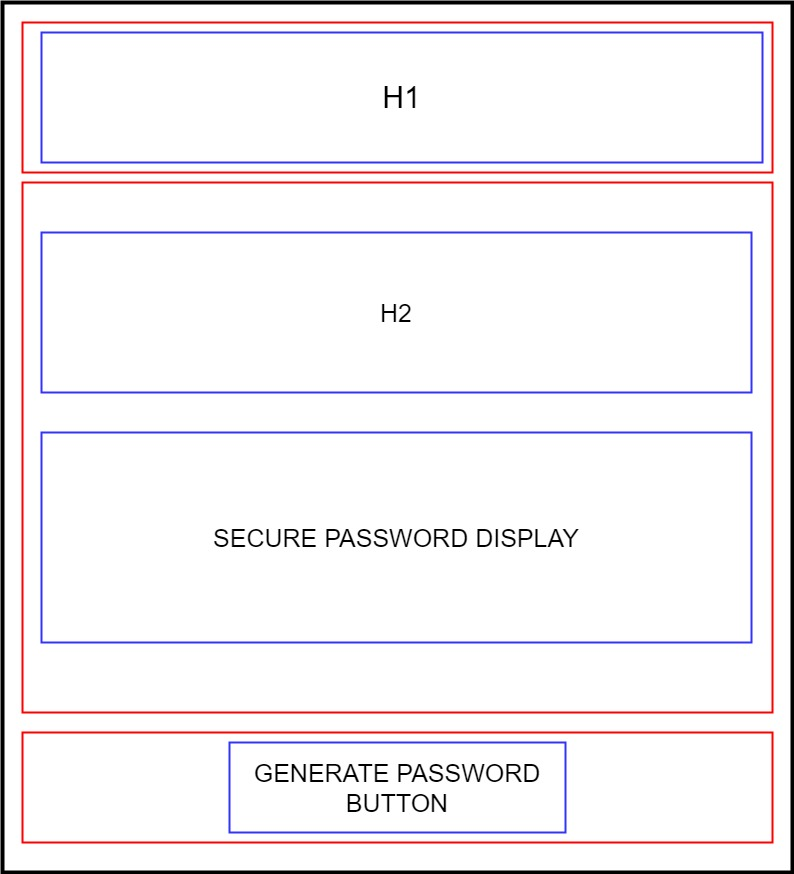
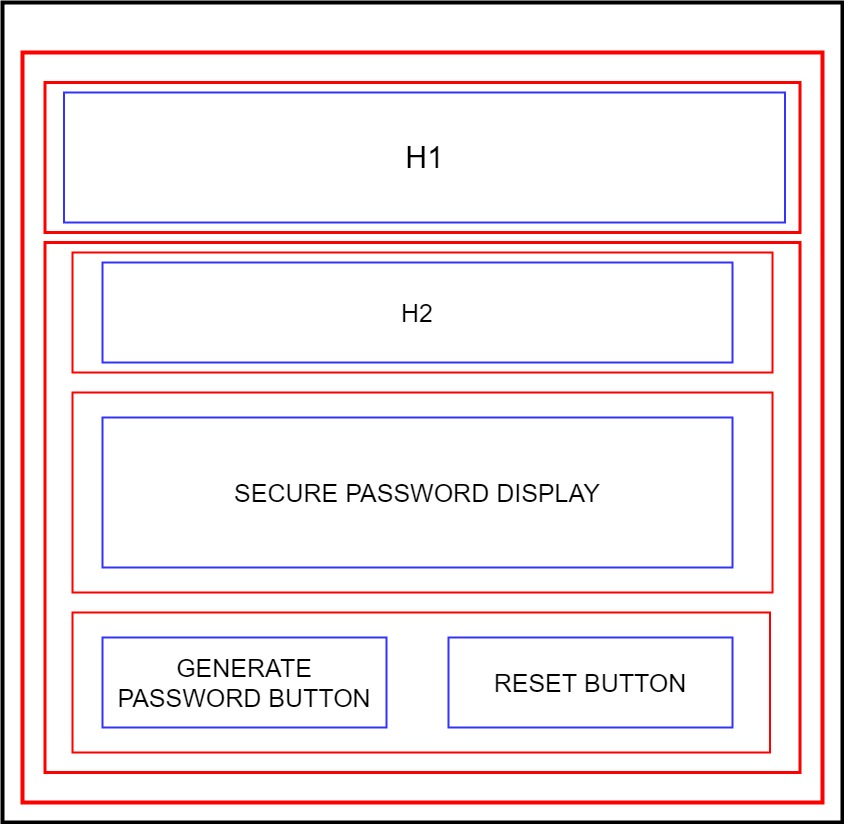
Updated wireframe. initial html layout. CSS styling.

Changed region(s): [[0.0, 0.0, 0.9975, 1.0], [0.272, 0.5765, 0.7254, 0.6371]]

diff --git a/index.html b/index.html
@@ -1,18 +1,38 @@
 <!DOCTYPE html>
 <html lang="en">
+
 <head>
     <meta charset="UTF-8">
     <meta http-equiv="X-UA-Compatible" content="IE=edge">
     <meta name="viewport" content="width=device-width, initial-scale=1.0">
     <!-- Linking css files -->
-    <link rel="stylesheet" href="./Assets/css/reset.css">
+    <!-- <link rel="stylesheet" href="./Assets/css/reset.css"> -->
     <link rel="stylesheet" href="./Assets/css/style.css">
 
     <title>Password Generator</title>
 </head>
-<body>
 
+<body>
+    <section id="container">
+        <header>
+            <h1>Password Generator</h1>
+        </header>
+        <main>
+            <section>
+                <h2>Generate a Password</h2>
+            </section>
+            <section id="pwd-display">
+                <p id="pwd-display-text">Your secure password</p>
+            </section>
+            <section id="gen-pwd-btn">
+                <button type="button" class="btn btn-primary">Generate Password</button>
+                <input class="btn btn-secondary" type="reset" value="Reset">
+            </section>
+        </main>    
+    </section>
+    <footer></footer>
     <!-- Linking js file -->
     <script src="./Assets/js/script.js"></script>
 </body>
+
 </html>

diff --git a/Assets/css/style.css b/Assets/css/style.css
@@ -1,0 +1,60 @@
+/***** IMPORT BOOTSTRAP *****/
+@import url('https://cdn.jsdelivr.net/npm/bootstrap@4.0.0/dist/css/bootstrap.min.css');
+
+/***** FONTS *****/
+@import url('https://fonts.googleapis.com/css2?family=Inter&family=Shizuru&family=Ubuntu:wght@300&display=swap');
+
+/***** UNIVERSAL SELECTOR *****/
+* {
+    font-family: 'Inter', sans-serif;
+}
+
+body {
+    border: 1px solid black;
+    text-align: center;
+    max-width: 100vw;
+    height: 100vh;
+    padding-left: 20px;
+    padding-right: 20px;
+    display: flex;    
+    justify-content: center;
+    align-items: center;
+}
+h1 {
+    font-size: 3em;
+}
+
+#container {
+    height: 50vh;
+    background: lightgray;
+    padding: 2em;
+    border-radius: 1em;
+    display: flex;
+    flex-direction: column;
+    justify-content: center;
+    align-items: center;
+    /* margin: auto; */
+}
+
+#pwd-display {
+    border: 2px dashed rgb(252, 124, 124);
+    width:25em;
+    min-width: 25vw;
+    height: 200px;
+}
+#pwd-display-text {
+    color: gray;
+    margin-top: 20px;
+}
+
+#gen-pwd-btn {
+    margin-top: 1em;
+}
+
+.btn-secondary {
+    background-color: red;
+}
+
+.btn-secondary:hover {
+    background-color: rgb(201, 60, 60);
+}
